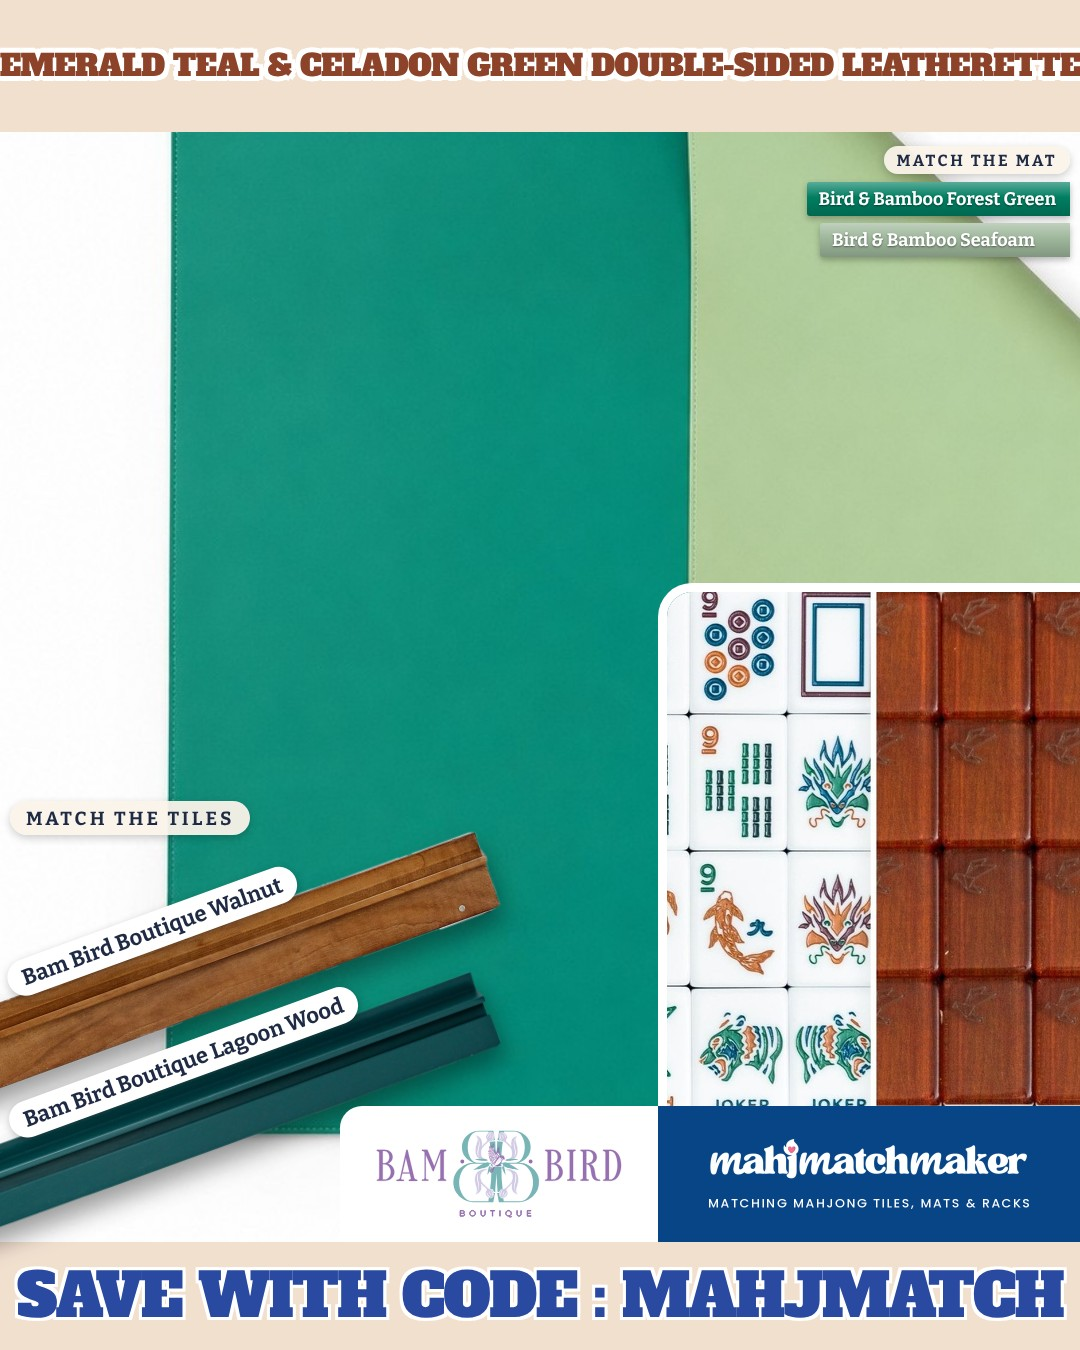
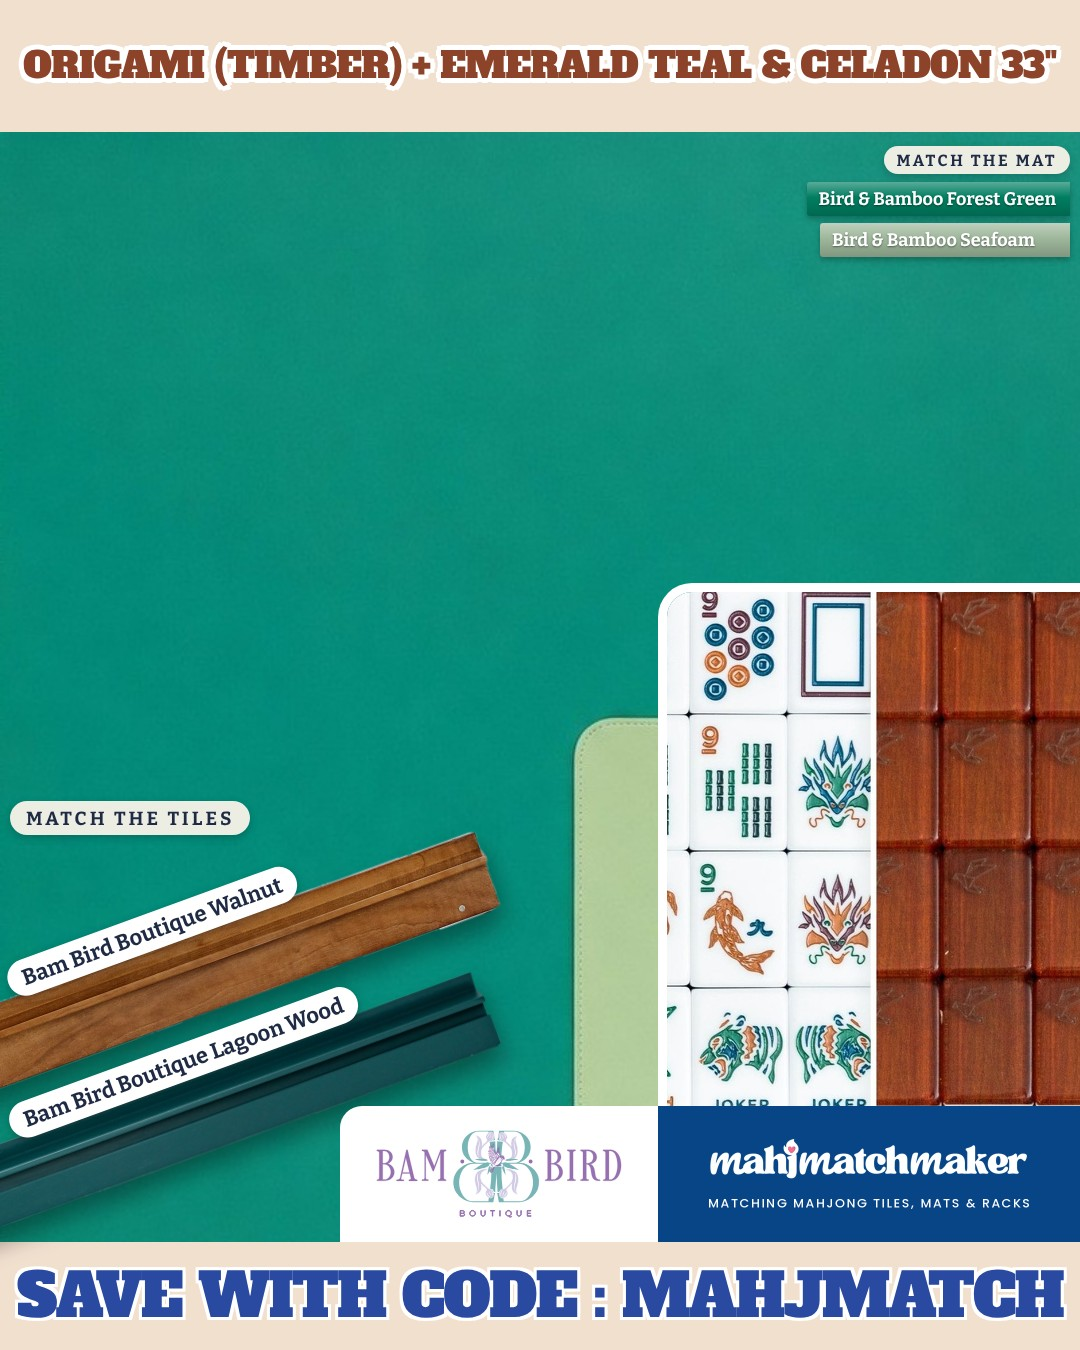
ANSWERS: Hunter Green in (Origami)
Claude-Session: https://claude.ai/code/session_01QxwYQtmWcAr4s5uYJYP3mA

diff --git a/scripts/albumreview/review_template.html b/scripts/albumreview/review_template.html
@@ -104,7 +104,9 @@ button:focus-visible,input:focus-visible,textarea:focus-visible,a:focus-visible{
 .noord .mv{display:none}
 .mc{scroll-margin-top:12px}.mc.flash{box-shadow:0 0 0 3px var(--pink)}
 .hint{font-size:14px;color:var(--muted);margin:8px 0 0}
-.list.grid{grid-template-columns:repeat(3,minmax(0,1fr));gap:6px}
+.list.grid{grid-template-columns:repeat(5,minmax(0,1fr));gap:4px}
+/* Nov 17 2:26am: bird's-eye ordering, 5 across even on a phone */
+.list.grid .gc{border-width:1.5px;border-radius:6px}.list.grid .gc .gn{font-size:11px;padding:2px 5px;top:2px;left:2px}.list.grid .gc .gk{font-size:11px;padding:1px 4px}
 /* Tiffany Nov 17 2:15am: a WIDE grid (4-6 across) to weigh colours for the final order, and drag to move */
 @media (min-width:700px){.list.grid{position:relative;left:50%;transform:translateX(-50%);width:min(1500px,calc(100vw - 32px));grid-template-columns:repeat(auto-fill,minmax(200px,1fr));gap:10px}}
 .gc.drag{opacity:.35}.gc.over{outline:3px solid var(--pink);outline-offset:2px}
@@ -306,7 +308,7 @@ function renderList(sec){ensureAll();const ids=S.order[sec];const el=$(sec==='ma
 function ensureAll(){for(const sec of['main','hol']){const seen=new Set();S.order[sec]=S.order[sec].filter(id=>byId[id]&&(byId[id].hol?'hol':'main')===sec&&!seen.has(id)&&seen.add(id))}
   for(const c of D.cards){const sec=c.hol?'hol':'main';if(!S.order[sec].includes(c.id))S.order[sec].push(c.id)}}
 /* ---------- view (per viewer, browser only) + move to # ---------- */
-let VIEW={main:'cards',hol:'cards'},SEL=null;const VKEY='albumreview-view-'+D.set;
+let VIEW={main:'grid',hol:'grid'},SEL=null;const VKEY='albumreview-view2-'+D.set;  /* v2: grid is the default now (Nov 17) */
 try{const v=JSON.parse(localStorage.getItem(VKEY)||'null');if(v)for(const k of['main','hol'])if(v[k]==='grid'||v[k]==='cards')VIEW[k]=v[k]}catch(e){}
 function setView(sec,v){VIEW[sec]=v;if(SEL&&SEL.sec===sec)SEL=null;try{localStorage.setItem(VKEY,JSON.stringify(VIEW))}catch(e){}renderList(sec);renderSel()}
 function renderSel(){const b=$('#gsel');document.querySelectorAll('.gc').forEach(x=>x.setAttribute('aria-pressed',!!SEL&&x.dataset.gid===SEL.id));

diff --git a/scripts/albumreview/selftest.py b/scripts/albumreview/selftest.py
@@ -88,6 +88,7 @@ def run(path, doc=None):
         pg.add_init_script(STUB % json.dumps(doc))
         pg.goto('file://' + os.path.abspath(path))
         pg.wait_for_function("document.querySelector('#st').textContent.includes('loaded')", timeout=8000)
+        pg.evaluate("try{setView('main','cards');setView('hol','cards')}catch(e){}")  # grid is the default since Nov 17; tests start in cards view
         ids = lambda sel, attr: pg.eval_on_selector_all(sel, f'els=>els.map(e=>e.dataset.{attr})')
         if doc.get('done') and pg.locator('#donebar').is_hidden(): bad.append('Done state not shown (Still ordering bar missing)')
         for s in ('main', 'hol'):

diff --git a/docs/ANSWERS.md b/docs/ANSWERS.md
@@ -1511,3 +1511,4 @@ Tiffany: tabletop room images look AI, don't want them. Use the clean flat/aeria
 - 2026-11-17 02:24 Tiffany (STANDING racks): never two burls on one card (OMM Burl + PLM Acrylic Burl); brown leathers (CMC Brown Vegan Leather etc.) need CONTRAST mat racks, e.g. Mahjong Register Navy, not same-tone burls. Applied in origami_build.py (burl exclusive + spec mat_racks overrides). Cards rebuilt; page republish waits for her go.
 - 2026-11-17 02:33 Tiffany: Mahjong Row is NOT shown as a partner in Find Your Mat-ch. Checked live v119: all 9 MR mats are hidden (hid:true), so no shopper sees them; Claude's 'still a partner' claim came from the stale pa flag in the data. She was right; OVERDUE line removed.
 - 2026-11-17 02:41 Tiffany (Origami Timber, chat): take out Sunday Mahjong Vegan Leather (Chestnut) (photo not good enough); Emerald Teal & Celadon duplicate, keep one (33" removed); try Bam Bird Vegan Leatherette Hunter Green. DONE in spec; goes on the review page when she says done.
+- 2026-11-17 02:44 Tiffany: Bam Bird Vegan Leather Hunter Green card for Origami Timber, "I like that one. Put it in." DONE: in the spec as her pick (card shows on the next review round).
